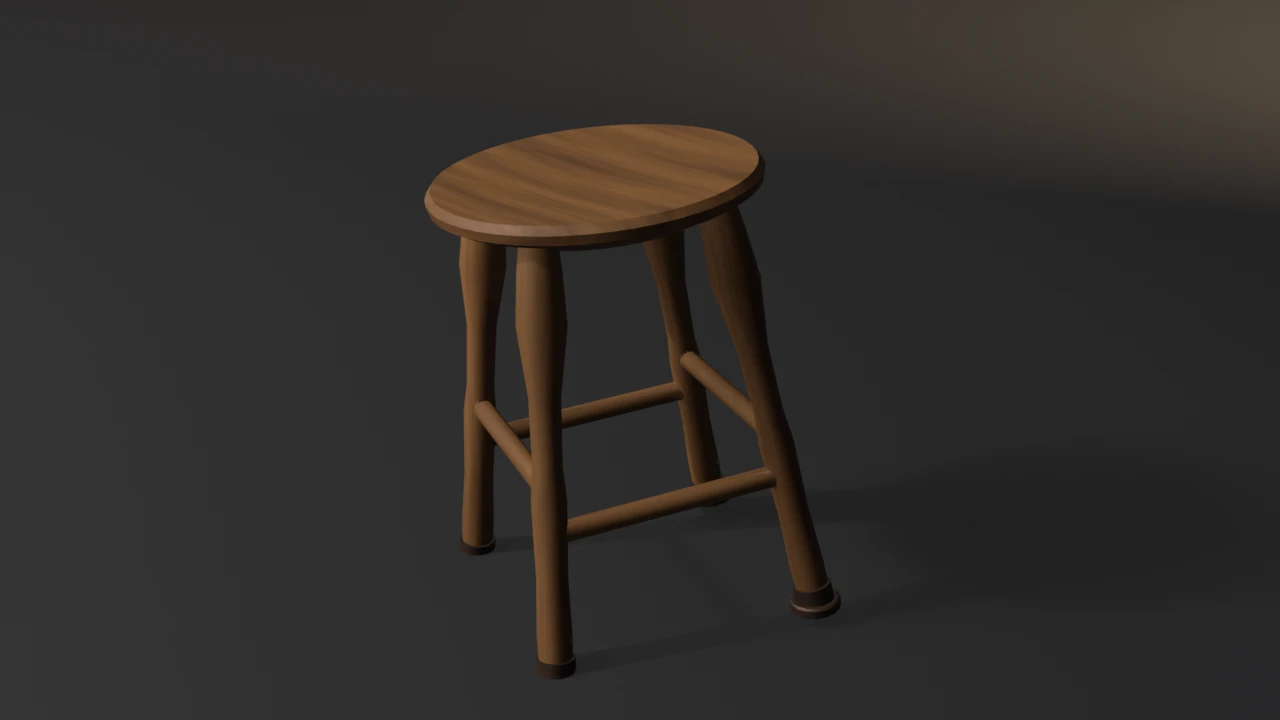
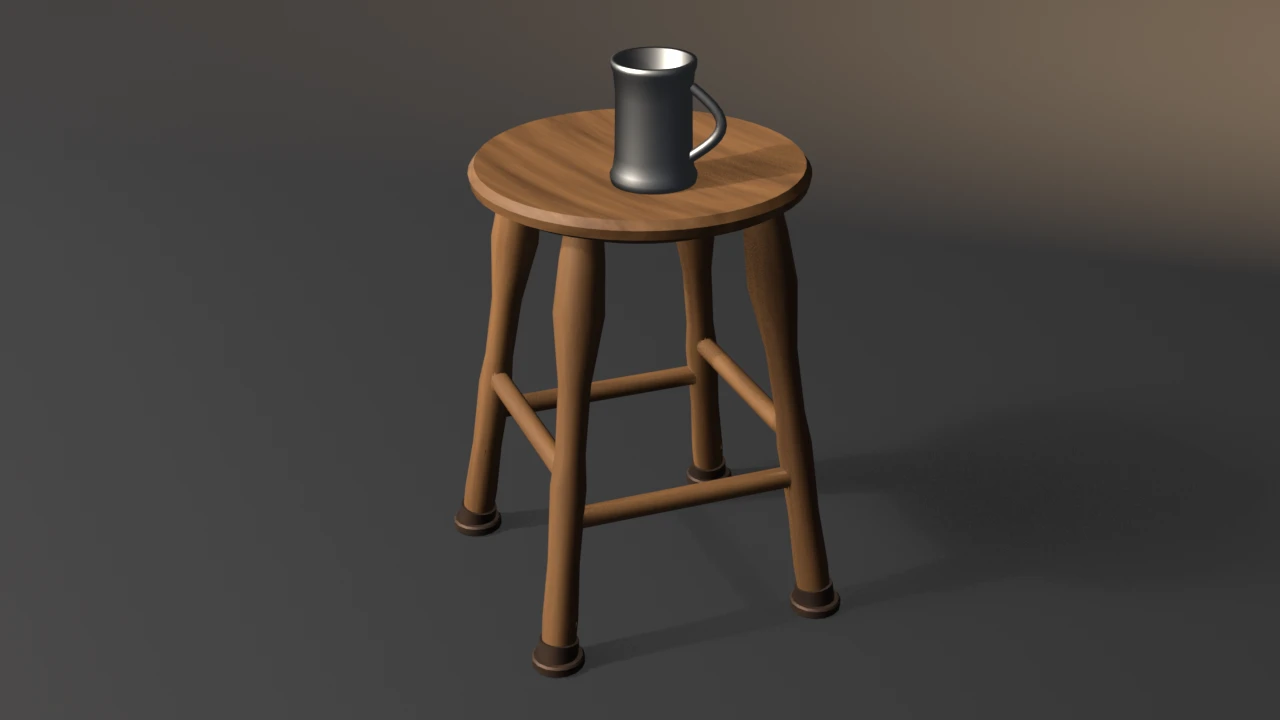
fix(showcase): dish the tavern-stool seat, stand the hero level, add a tankard
The seat's sitting dish goes from 6 mm to 14 mm at the centre. Only the last
two lathe profile points move, so the ring count and triangle count are
unchanged (3040). The dish floor stays 8 mm above the leg tenons wherever a
leg enters from below; no audit reads the dish.

The hero rolled the stool 6 degrees about X to show the seat. That sank one
pair of treads into the floor and lifted the other, against the showcase
"level on the stage" rule. The stool now turns about Z only, and the camera
sits higher and closer instead. A render-only pewter tankard stands in the
dish, with its handle in profile. It is not part of the asset: no budget,
no export, and the asset sheet renders the stool without it. The key and a
warmer wedge were relit, because the first contact sheet read dark and grey.

Also adds scripts/asset_sheet.py SELECT rows for tavern-stool, grindstone
and chopping-block. None had one, so the asset-sheet gate could not run on
them before.

Evidence (live runs, local .scratch binaries):
- Blender 5.2.1 LTS: default exits 0 (base 3040 tris, LOD 0.5000 / 0.2197,
  collider 468, bake FINISHED with data). --output passes framing: fill
  y 0.794, margins l 0.356 r 0.344 b 0.056 t 0.067.
- Blender 4.5.11 LTS: default and --output exit 0, same counts, framing ok.
- tests/check_falsifier_targets.py static: 337 falsifiers across 36 pieces
  pass. --run on both versions: --skip-decimate 9, --stray-vert 15,
[…]

Changed region(s): [[0.0938, 0.0, 1.0, 0.9472], [0.2188, 0.0917, 0.25, 0.1222], [0.0, 0.0, 0.0312, 0.0306]]

diff --git a/showcase/tavern-stool/tavern_stool.py b/showcase/tavern-stool/tavern_stool.py
@@ -145,8 +145,11 @@ SEAT_PROFILE = (
     (0.022, 0.168),
     (0.032, 0.170),
     (0.040, 0.164),
-    (0.037, 0.095),
-    (0.034, 0.000),
+    # A sitting dish, 14 mm deep at the centre: the same ring count as the
+    # old 6 mm dish, so the triangle count is unchanged. It stays 8 mm above
+    # the leg tenons (SEAT_TENON) wherever a leg enters from below.
+    (0.033, 0.105),
+    (0.026, 0.000),
 )
 
 
@@ -1396,6 +1399,85 @@ def wire_normal(mat, tex):
     nt.links.new(nrm.outputs["Normal"], bsdf.inputs["Normal"])
 
 
+def add_tankard(scene):
+    """Render-only dressing: a pewter tankard standing in the seat dish.
+
+    Not part of the asset (no budget, no export); it gives the seat a scale
+    cue and a use. The foot rests on the dish, whose surface rises from
+    DISH_Z at the centre by DISH_RISE per metre of radius.
+    """
+    dish_z = SEAT_Z - SEAT_T + SEAT_PROFILE[-1][0]
+    dish_rise = (SEAT_PROFILE[-2][0] - SEAT_PROFILE[-1][0]) / SEAT_PROFILE[-2][1]
+    foot_r = 0.042
+    z0 = dish_z + dish_rise * foot_r - 0.001     # the foot rim bites 1 mm
+    cx, cy = 0.030, -0.018
+    prof = [(0.000, 0.0), (0.040, 0.0), (foot_r, 0.004), (0.043, 0.010),
+            (0.040, 0.016), (0.038, 0.030), (0.037, 0.090), (0.039, 0.112),
+            (0.041, 0.118), (0.041, 0.124), (0.035, 0.124), (0.034, 0.012),
+            (0.0, 0.012)]
+    segs = 32
+    me = bpy.data.meshes.new("Tankard")
+    bm = bmesh.new()
+    try:
+        rings = []
+        for r, z in prof:
+            if r < 1e-9:
+                rings.append([bm.verts.new((cx, cy, z0 + z))])
+            else:
+                rings.append([bm.verts.new((cx + r * math.cos(2 * math.pi * i / segs),
+                                            cy + r * math.sin(2 * math.pi * i / segs),
+                                            z0 + z)) for i in range(segs)])
+        for a, b in zip(rings, rings[1:]):
+            for i in range(segs):
+                j = (i + 1) % segs
+                if len(a) == 1:
+                    f = bm.faces.new((a[0], b[j], b[i]))
+                elif len(b) == 1:
+                    f = bm.faces.new((a[i], a[j], b[0]))
+                else:
+                    f = bm.faces.new((a[i], a[j], b[j], b[i]))
+                f.smooth = True
+        # handle: a D-shaped bar, turned into profile against the hero camera
+        ang = math.radians(20.0)
+        ux, uy = math.cos(ang), math.sin(ang)
+        pts = []
+        for k in range(13):
+            t = math.pi * k / 12
+            reach = 0.030 * math.sin(t)
+            pts.append(Vector((cx + ux * (0.037 + reach), cy + uy * (0.037 + reach),
+                               z0 + 0.100 - 0.070 * k / 12)))
+        hr = 0.0055
+        hs = 8
+        prev = None
+        for k, p in enumerate(pts):
+            tan = (pts[min(k + 1, 12)] - pts[max(k - 1, 0)]).normalized()
+            side = Vector((-uy, ux, 0.0))
+            nrm = tan.cross(side).normalized()
+            ring = [bm.verts.new(p + hr * (side * math.cos(2 * math.pi * i / hs)
+                                           + nrm * math.sin(2 * math.pi * i / hs)))
+                    for i in range(hs)]
+            if prev:
+                for i in range(hs):
+                    j = (i + 1) % hs
+                    f = bm.faces.new((prev[i], prev[j], ring[j], ring[i]))
+                    f.smooth = True
+            prev = ring
+        bmesh.ops.recalc_face_normals(bm, faces=bm.faces)
+        bm.to_mesh(me)
+    finally:
+        bm.free()
+    mat = bpy.data.materials.new("Pewter")
+    mat.use_nodes = True
+    b = mat.node_tree.nodes["Principled BSDF"]
+    b.inputs["Base Color"].default_value = (0.62, 0.62, 0.60, 1.0)
+    b.inputs["Metallic"].default_value = 1.0
+    b.inputs["Roughness"].default_value = 0.46
+    me.materials.append(mat)
+    ob = bpy.data.objects.new("Tankard", me)
+    scene.collection.objects.link(ob)
+    return ob
+
+
 def render_still(low, wood, tex, path, engine):
     scene = bpy.context.scene
     wire_normal(wood, tex)
@@ -1404,8 +1486,12 @@ def render_still(low, wood, tex, path, engine):
             ob.hide_render = True
             ob.hide_viewport = True
 
+    # Turn about Z only: the old 6 degree roll about X sank one pair of
+    # treads into the floor and lifted the other (showcase "level on the
+    # stage"). The camera sits higher instead, so the seat dish still reads.
     low.rotation_euler.z = math.radians(-32.0)
-    low.rotation_euler.x = math.radians(6.0)
+    low.rotation_euler.x = 0.0
+    tankard = add_tankard(scene)
 
     floor_me = bpy.data.meshes.new("Floor")
     bm = bmesh.new()
@@ -1444,17 +1530,19 @@ def render_still(low, wood, tex, path, engine):
         ob.rotation_euler = tuple(math.radians(a) for a in rot)
         scene.collection.objects.link(ob)
 
-    light("Key", (-3.6, -5.0, 5.4), 660.0, 4.0, (1.0, 0.94, 0.86), (50, 0, -36))
-    light("Fill", (5.0, -3.4, 2.4), 46.0, 8.0, (0.72, 0.82, 1.0), (62, 0, 50))
-    light("Wedge", (2.2, 4.0, 3.8), 600.0, 5.5, (1.0, 0.70, 0.40), (-70, 0, 198))
+    # the key reads the grain on the seat and the turned legs; the wedge
+    # rakes the wall behind the stool so the stage carries the warm pool
+    light("Key", (-3.2, -4.4, 5.0), 980.0, 3.6, (1.0, 0.93, 0.84), (50, 0, -36))
+    light("Fill", (5.0, -3.4, 2.4), 60.0, 8.0, (0.72, 0.82, 1.0), (62, 0, 50))
+    light("Wedge", (1.6, 3.2, 3.2), 780.0, 5.0, (1.0, 0.66, 0.36), (-66, 0, 200))
 
     cam_data = bpy.data.cameras.new("Cam")
     cam_data.lens = 50.0
     cam = bpy.data.objects.new("Cam", cam_data)
-    cam.location = (1.05, -1.38, 0.92)
+    cam.location = (1.00, -1.33, 1.06)
     scene.collection.objects.link(cam)
     aim = bpy.data.objects.new("Aim", None)
-    aim.location = (0.0, 0.0, 0.26)
+    aim.location = (0.0, 0.0, 0.25)
     scene.collection.objects.link(aim)
     con = cam.constraints.new("TRACK_TO")
     con.target = aim
@@ -1482,7 +1570,7 @@ def render_still(low, wood, tex, path, engine):
     scene.view_settings.view_transform = "Standard"
 
     fcode = gallery_framing.check_framing(
-        scene, cam, hero=[low], elements=[low], stage=[floor, wall],
+        scene, cam, hero=[low], elements=[low, tankard], stage=[floor, wall],
     )
     if fcode:
         return fcode

diff --git a/scripts/asset_sheet.py b/scripts/asset_sheet.py
@@ -70,6 +70,9 @@ SELECT = {
     "street-lantern": (r"^LanternLow$", None),
     "hand-pump": (r"^HandPumpLow$", None),
     "anvil": (r"^AnvilLow$", None),
+    "tavern-stool": (r"^StoolLow$", None),
+    "grindstone": (r"^GrindstoneLow$", None),
+    "chopping-block": (r"^ChopBlockLow$", None),
     # the hero shows a three-section run; the sheet judges the one asset
     "fence-kit": (r"^FenceLow$", None),
     "wooden-ladder": (r"^LadderLow$", None),

diff --git a/README.md b/README.md
@@ -131,7 +131,7 @@ Budget-conformance props. Not examples. Conventions: [`showcase/README.md`](show
   <a href="showcase/chopping-block/"><img src="showcase/chopping-block/preview.webp" width="24%" alt="Chopping block: a bark-sided log round with growth rings and drying checks on its sawn top, a riveted iron hoop, and a felling axe buried in the top, on a dark studio floor" /></a>
   <a href="showcase/wooden-bucket/"><img src="showcase/wooden-bucket/preview.webp" width="24%" alt="Wooden bucket: a coopered pail with a three-strand rope bail through iron ear rings and chord-lofted iron hoops on a dark studio floor" /></a>
   <a href="showcase/wall-torch/"><img src="showcase/wall-torch/preview.webp" width="24%" alt="Wall torch: a dressed stone plaque with an iron plate and arm holding a cup, a leaning wooden torch with a pitch-wrapped head and a bright flame, on a dark studio floor" /></a>
-  <a href="showcase/tavern-stool/"><img src="showcase/tavern-stool/preview.webp" width="24%" alt="Tavern stool: a round wooden seat on turned splayed legs with stretchers at two heights and iron ferrules on flat treads, on a dark studio floor" /></a>
+  <a href="showcase/tavern-stool/"><img src="showcase/tavern-stool/preview.webp" width="24%" alt="Tavern stool: a dished round wooden seat holding a pewter tankard, on turned splayed legs with stretchers at two heights and iron ferrules on flat treads, on a dark studio floor" /></a>
   <a href="showcase/iron-cauldron/"><img src="showcase/iron-cauldron/preview.webp" width="24%" alt="Iron cauldron: a round-bellied cast-iron pot hanging by its bail from a timber tripod on a dark studio floor" /></a>
   <a href="showcase/wooden-ladder/"><img src="showcase/wooden-ladder/preview.webp" width="24%" alt="Wooden ladder: a raked timber ladder with six evenly spaced turned rungs and iron shoes, leaning on a weathered barn-board wall with a coil of hemp rope hung over a rung" /></a>
   <a href="showcase/hay-bale/"><img src="showcase/hay-bale/preview.webp" width="24%" alt="Hay bale: a bound straw bale with two sisal twine belts on a dark studio floor" /></a>

diff --git a/showcase/tavern-stool/README.md b/showcase/tavern-stool/README.md
@@ -13,6 +13,16 @@ leg ends inside the sleeve, above the tread. The first build ended every leg
 3 mm above a vertical ring on the floor, with a 1 mm air gap around the foot.
 The front-back and side stretchers sit at different heights, so their tenons
 do not meet inside the leg. Each member has its own wood tone and grain.
+The seat is dished 14 mm at the centre for sitting, from the same lathe ring
+count as the old 6 mm dish, so the triangle count did not move. The dish
+floor stays 8 mm above the leg tenons wherever a leg enters from below.
+
+The hero stands the stool level and turns it about Z only. An earlier still
+rolled it 6° about X to show the seat, which sank one pair of treads into
+the floor and lifted the other; the camera now sits higher instead. A
+pewter tankard stands in the dish as render-only dressing. It is not part
+of the asset: no budget, no export, and the asset sheet renders the stool
+without it.
 
 It asserts **budget conformance** of the generated result. It does not
 witness an API contract. "It rendered without error" is not a check.
